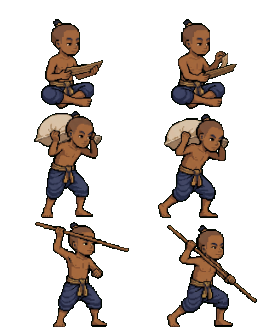
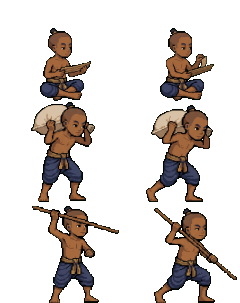
ภาพชุด A3 + แก้ขนาดตัวละครท่าฝึกให้เท่ากับท่ายืน + เลือกกงกรรมแล้วตัวละครทำท่าของสเตตัสที่เพิ่ม
Claude-Session: https://claude.ai/code/session_01VyskKiPGXbguATD8hfHETA

diff --git a/src/game/scene.ts b/src/game/scene.ts
@@ -25,11 +25,21 @@ export class Scene {
   private posX = 112; private targetX = 112; private face = 1; private nextWalk = 6; private walkT = 0;
   private blinkAt = 3; private lookUntil = 0; private nextLook = 10;
   // ชุดท่า A2: ฝึกฝน แถว 0 อ่านหนังสือ (นั่ง) · แถว 1 แบกกระสอบ · แถว 2 รำไม้พลอง (แถวละ 2 เฟรม)
-  private sheet2 = new Image();
-  private readonly FW2 = 130; private readonly FH2 = 109;
-  private act: { row: number; until: number } | null = null;
-  /** สเตตัสที่ฝึก → แถวท่าใน sheet2 */
-  private static ACT_ROW: Record<string, number> = { 'ความรู้': 0, 'พละกำลัง': 1, 'ต่อสู้': 2 };
+  // ชุดท่าฝึก: ขนาดเฟรมอ่านจากรูป (2 คอลัมน์ × 3 แถว)
+  private actSheets: Record<string, HTMLImageElement> = {};
+  private act: { sheet: string; row: number; until: number } | null = null;
+  /** สเตตัส → ชุดท่าและแถว (A2: อ่าน แบก รำไม้ · A3: สมาธิ ย่อง จุดเทียน) */
+  private static ACTS: Record<string, { sheet: string; row: number; speed: number }> = {
+    'ความรู้': { sheet: 'a2', row: 0, speed: 0.8 }, 'พละกำลัง': { sheet: 'a2', row: 1, speed: 0.8 }, 'ต่อสู้': { sheet: 'a2', row: 2, speed: 0.45 },
+    'บารมี': { sheet: 'a3', row: 0, speed: 1.4 }, 'หลบหลีก': { sheet: 'a3', row: 1, speed: 0.5 }, 'ไสยเวทย์': { sheet: 'a3', row: 2, speed: 1.0 },
+  };
+  private hasAct(stat: string) { const a = Scene.ACTS[stat], im = a && this.actSheets[a.sheet]; return !!(im && im.complete && im.naturalWidth); }
+  /** ให้ตัวละครทำท่าของสเตตัสนี้สักพัก (เช่น หลังเลือกตัวเลือกในกงกรรม) */
+  showStat(stat: string, seconds = 5) {
+    if (!this.hasAct(stat)) return false;
+    const a = Scene.ACTS[stat]; this.act = { sheet: a.sheet, row: a.row, until: this.t + seconds }; this.targetX = this.posX;
+    return true;
+  }
   private t = 0;
   private parts: Particle[] = [];
   private jump = 0;
@@ -45,7 +55,7 @@ export class Scene {
     this.ctx.imageSmoothingEnabled = false;
     this.sprite.src = new URL('./art/boy.png', document.baseURI).href;
     this.sheet.src = new URL('./art/boy_a1.png', document.baseURI).href;
-    this.sheet2.src = new URL('./art/boy_a2.png', document.baseURI).href;
+    for (const k of ['a2', 'a3']) { const im = new Image(); im.src = new URL(`./art/boy_${k}.png`, document.baseURI).href; this.actSheets[k] = im; }
   }
 
   /** แปลงพิกัดคลิกบนหน้าจอเป็นพิกัด canvas */
@@ -179,17 +189,17 @@ export class Scene {
     const w = Math.round(this.FW * scale), h = Math.round(this.FH * scale);
     // เดิน: สุ่มจุดหมายใหม่ทุก 8–18 วินาที (หยุดเมื่อมีเหตุการณ์หรือกำลังฉลอง)
     const busy = this.alert || this.jump > 0;
-    if (busy) this.act = null;
+    if (this.alert) this.act = null;
     if (this.act && t > this.act.until) this.act = null;
     if (!busy && !this.act && t > this.nextWalk && Math.abs(this.targetX - this.posX) < 1) {
       // ถึงเวลาขยับ: ฝึกท่าตามสเตตัสที่เลือกไว้ (ถ้ามีภาพ) หรือเดินไปจุดอื่น
-      const rows = L.train.map(s => Scene.ACT_ROW[s]).filter(r => r != null);
-      if (rows.length && this.sheet2.complete && this.sheet2.naturalWidth && Math.random() < 0.6) {
-        this.act = { row: rows[Math.floor(Math.random() * rows.length)], until: t + 6 + Math.random() * 4 };
-      } else this.targetX = 60 + Math.random() * 110;
+      const stats = L.train.filter(s => this.hasAct(s));
+      if (L.path === 'merit' && this.hasAct('บารมี')) stats.push('บารมี'); // แนวทางทำบุญ → นั่งสมาธิ/ไหว้พระ
+      if (stats.length && Math.random() < 0.6) this.showStat(stats[Math.floor(Math.random() * stats.length)], 6 + Math.random() * 4);
+      else this.targetX = 60 + Math.random() * 110;
       this.nextWalk = t + 8 + Math.random() * 10;
     }
-    if (this.act) { this.drawAct(L, this.act.row, scale); return; }
+    if (this.act) { this.drawAct(this.act.sheet, this.act.row, scale); return; }
     const dx = this.targetX - this.posX, walking = !busy && Math.abs(dx) >= 1;
     let col: number, row: number;
     if (walking) {
@@ -220,17 +230,18 @@ export class Scene {
     }
   }
 
-  /** ท่าฝึก (sheet2) วางให้หัวตรงกับตำแหน่งตัวละคร เท้าแตะพื้น */
-  private drawAct(L: GameState['life'], row: number, scale: number) {
-    const c = this.ctx, w = Math.round(this.FW2 * scale), h = Math.round(this.FH2 * scale);
-    const col = Math.floor(this.t / (row === 2 ? 0.45 : 0.8)) % 2;
+  /** ท่าฝึก: วางให้หัวตรงกับตำแหน่งตัวละคร เท้าแตะพื้น */
+  private drawAct(sheet: string, row: number, scale: number) {
+    const im = this.actSheets[sheet], fw = im.naturalWidth / 2, fh = im.naturalHeight / 3;
+    const a = Object.values(Scene.ACTS).find(x => x.sheet === sheet && x.row === row)!;
+    const c = this.ctx, w = Math.round(fw * scale), h = Math.round(fh * scale);
+    const col = Math.floor(this.t / a.speed) % 2;
     const x = Math.round(this.posX - w / 2), y = GROUND + 2 - h;
     const bw = Math.round(this.FW * scale * 0.6);
     this.charBox = { x: Math.round(this.posX - bw / 2), y, w: bw, h };
     this.face = 1;
     c.fillStyle = 'rgba(80,55,30,0.25)'; c.fillRect(Math.round(this.posX - bw / 2), GROUND, bw, 2);
-    c.drawImage(this.sheet2, col * this.FW2, row * this.FH2, this.FW2, this.FH2, x, y, w, h);
-    void L;
+    c.drawImage(im, col * fw, row * fh, fw, fh, x, y, w, h);
   }
 
   private house(level: number) {

diff --git a/src/game/main.ts b/src/game/main.ts
@@ -527,7 +527,12 @@ document.addEventListener('click', ev => {
       const r = E.resolveEvent(g, v === '' ? undefined : v === 'risky' ? 'risky' : isNaN(+v) ? v as E.EndingId : +v);
       const choseSomething = e && (e.kind === 'karma' || (e.kind === 'hist' && v !== ''));
       if (v === 'risky') (r.success ? S.playGood : S.playFail)(); else S.playTap();
-      if (choseSomething) showResult(label, diff(before), v === 'risky' ? r : null);
+      if (choseSomething) {
+        const d = diff(before);
+        showResult(label, d, v === 'risky' ? r : null);
+        // ให้ตัวละครทำท่าของสเตตัสที่เพิ่มมากที่สุด
+        for (const x of d.filter(x => x.kind === 'stat' && x.v > 0).sort((p, q) => q.v - p.v)) if (scene.showStat(x.key, 6)) break;
+      }
       else closeModal();
       break;
     }

diff --git a/tools/art/sheet.py b/tools/art/sheet.py
@@ -19,11 +19,14 @@ for j in range(rows):
         ys = np.where(m.sum(1) > 3)[0]; xs = np.where(m.sum(0) > 3)[0]
         cells.append((j, i, ys.min(), ys.max(), xs.min(), xs.max()))
 # สเกลเดียวกันทุกเฟรม: ให้ความสูงเฉลี่ยของแถวอ้างอิง (ท่ายืน) = target_h
-if arg.startswith('px='): s = 1 / float(arg[3:])
-else: s = target_h / np.mean([c[3] - c[2] + 1 for c in cells if c[0] == ref_row])
-print('scale', round(1/s, 2), 'px per pixel')
+# px= ใส่ค่าเดียว หรือรายแถวคั่นด้วยจุลภาค (เช่น px=9.5,8.3,8.3) — Gemini วาดสัดส่วนเพี้ยนต่างกันแต่ละท่า
+if arg.startswith('px='): pxs = [float(v) for v in arg[3:].split(',')]; row_s = [1 / pxs[min(j, len(pxs) - 1)] for j in range(rows)]
+else: row_s = [target_h / np.mean([c[3] - c[2] + 1 for c in cells if c[0] == ref_row])] * rows
+s = row_s[0]
+print('scale', [round(1/v, 2) for v in row_s], 'px per pixel')
 frames = []
 for (j, i, y0, y1, x0, x1) in cells:
+    s = row_s[j]
     x_off, y_off = i*cw, j*ch
     crop = im[y_off + y0:y_off + y1 + 1, x_off + x0:x_off + x1 + 1]
     mask = ~bg[y_off + y0:y_off + y1 + 1, x_off + x0:x_off + x1 + 1]

diff --git a/docs/art-todo.md b/docs/art-todo.md
@@ -23,7 +23,7 @@
 |---|---|---|---|
 | A1 ท่าพื้นฐาน | เดิน ๔ · ยืนหายใจ ๒ · กะพริบตา · หันมามอง | ๘ | ✅ ใส่ในเกมแล้ว |
 | A2 ฝึกฝน ๑ | อ่านหนังสือ/ใบลาน ๒ · แบกของหนัก ๒ · รำไม้พลอง ๒ | ๖ | ✅ ใส่ในเกมแล้ว (ฝึกความรู้ พละกำลัง ต่อสู้) |
-| A3 ฝึกฝน ๒ | ไหว้พระ/นั่งสมาธิ ๒ · ย่องหลบ ๒ · จุดเทียนท่องคาถา ๒ | ๖ | ⬜ |
+| A3 ฝึกฝน ๒ | ไหว้พระ/นั่งสมาธิ ๒ · ย่องหลบ ๒ · จุดเทียนท่องคาถา ๒ | ๖ | ✅ ใส่ในเกมแล้ว (บารมี หลบหลีก ไสยเวทย์) |
 | A4 งานเด็ก | เก็บของป่าใส่ตะกร้า ๒ · กวาดลานวัด ๒ · จูงวัว/แบกห่อของคาราวาน ๒ | ๖ | ⬜ |
 | A5 อารมณ์ | ดีใจกระโดด ๒ · เสียใจก้มหน้า ๑ · ตกใจ ๑ · นอน ๑ · หลบฝน ๑ | ๖ | ⬜ |
 
